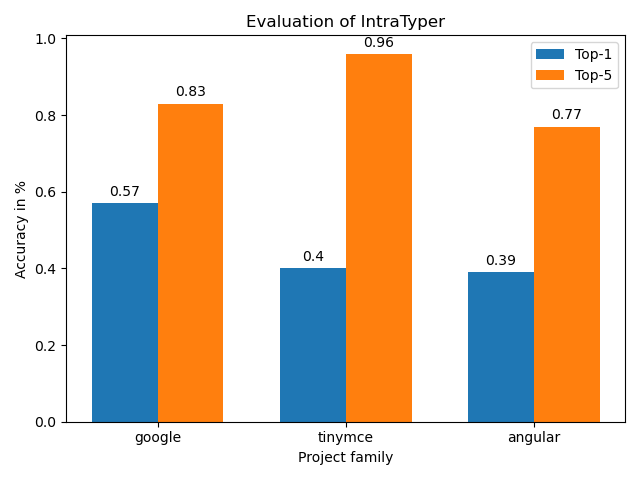
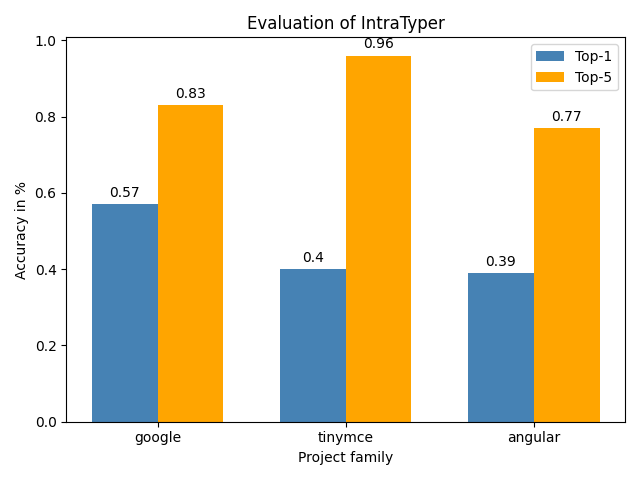
Include uncommon type comparison

diff --git a/analyse_result.py b/analyse_result.py
@@ -1,6 +1,8 @@
 import matplotlib.pyplot as plt
 import numpy as np
 
+common_types = ['$string$', '$boolean$', '$number$', '$any$', '$Array$', '$void$']
+
 
 def plotter_IT(f1, f2, f3):
     file_list = [f1, f2, f3]
@@ -38,8 +40,8 @@ def plotter_IT(f1, f2, f3):
     width = 0.35  # the width of the bars
 
     fig, ax = plt.subplots()
-    rects1 = ax.bar(x - width / 2, top_1_acc, width, label='Top-1')
-    rects2 = ax.bar(x + width / 2, top_5_acc, width, label='Top-5')
+    rects1 = ax.bar(x - width / 2, top_1_acc, color='steelblue', width=width, label='Top-1')
+    rects2 = ax.bar(x + width / 2, top_5_acc, color='orange', width=width, label='Top-5')
 
     # Add some text for labels, title and custom x-axis tick labels, etc.
     ax.set_ylabel('Accuracy in %')
@@ -78,7 +80,10 @@ def plotter_comp(f1, f2):
         data = open(file)
         top_1 = 0
         top_5 = 0
+        uncommon_top_1 = 0
+        uncommon_top_5 = 0
         count = 0
+        uncommon_count = 0
         for x in data:
             lx = x.split()
             if lx[0] != '$any$':
@@ -87,35 +92,57 @@ def plotter_comp(f1, f2):
                 if int(lx[3]) != 0:
                     top_5 += 1
                 count += 1
-        result = {'name': project, 'top_1': round(top_1 / count, 2), 'top_5': round(top_5 / count, 2), 'total': count}
+            if lx[0] not in common_types:
+                if lx[0] == lx[1]:
+                    uncommon_top_1 += 1
+                if int(lx[3]) != 0:
+                    uncommon_top_5 += 1
+                uncommon_count += 1
+        result = {'name': project, 'top_1': round(top_1 / count, 2), 'top_5': round(top_5 / count, 2), 'total': count,
+                  'uc_1': round(uncommon_top_1 / uncommon_count, 2), 'uc_5': round(uncommon_top_5 / uncommon_count, 2),
+                  'uc_total': uncommon_count}
         results.append(result)
         data.close()
 
-        print("Project: " + project)
+        print("Model: " + project)
         print("Total Samples " + str(result.get('total')))
-        print("Top 1 accuracy: " + str(result.get('top_1')))
-        print("Top 5 accuracy: " + str(result.get('top_5')))
+        print("Top 1 accuracy common: " + str(result.get('top_1')))
+        print("Top 5 accuracy common: " + str(result.get('top_5')))
+        print()
+        print("Total Samples uncommon" + str(result.get('uc_total')))
+        print("Top 1 accuracy uncommon: " + str(result.get('uc_1')))
+        print("Top 5 accuracy uncommon: " + str(result.get('uc_5')))
         print()
 
     # plot the results
     labels = [results[0].get('name'), results[1].get('name')]
     top_1_acc = [results[0].get('top_1'), results[1].get('top_1')]
     top_5_acc = [results[0].get('top_5'), results[1].get('top_5')]
+    uc_1_acc = [results[0].get('uc_1'), results[1].get('uc_1')]
+    uc_5_acc = [results[0].get('uc_5'), results[1].get('uc_5')]
 
-    x = np.arange(len(labels))  # the label locations
-    width = 0.35  # the width of the bars
+    # set width of bar
+    barWidth = 0.2
+    # Set position of bar on X axis
+    r1 = np.arange(len(top_1_acc))
+    r2 = [x + barWidth for x in r1]
+    r3 = [x + barWidth for x in r2]
+    r4 = [x + barWidth for x in r3]
 
+    # Make the plot
     fig, ax = plt.subplots()
-    rects1 = ax.bar(x - width / 2, top_1_acc, width, label='Top-1')
-    rects2 = ax.bar(x + width / 2, top_5_acc, width, label='Top-5')
+    rects1 = ax.bar(r1, top_1_acc, color='steelblue', width=barWidth, edgecolor='white', label='Top-1 all')
+    rects2 = ax.bar(r2, top_5_acc, color='deepskyblue', width=barWidth, edgecolor='white', label='Top-5 all')
+    rects3 = ax.bar(r3, uc_1_acc, color='orange', width=barWidth, edgecolor='white', label='Top-1 uncommon')
+    rects4 = ax.bar(r4, uc_5_acc, color='moccasin', width=barWidth, edgecolor='white', label='Top 5 uncommon')
 
     # Add some text for labels, title and custom x-axis tick labels, etc.
     ax.set_ylabel('Accuracy in %')
     ax.set_xlabel('Model')
-    ax.set_xticks(x)
+    plt.xticks([r + 1.5 * barWidth for r in range(len(labels))], ['IntraTyper', 'DeepTyper'])
     ax.set_xticklabels(labels)
-    ax.set_title("Comparison between IntraTyper and DeepTyper on the google test set")
-    ax.legend()
+    ax.set_title("Intra-project comparison between IntraTyper and DeepTyper")
+    ax.legend(loc='lower right')
 
     def autolabel(rects):
         """Attach a text label above each bar in *rects*, displaying its height."""
@@ -129,10 +156,13 @@ def plotter_comp(f1, f2):
 
     autolabel(rects1)
     autolabel(rects2)
+    autolabel(rects3)
+    autolabel(rects4)
 
     fig.tight_layout()
 
     plt.savefig("results/comparison")
+    plt.figure(figsize=[10, 6])
     plt.show()
 
 
